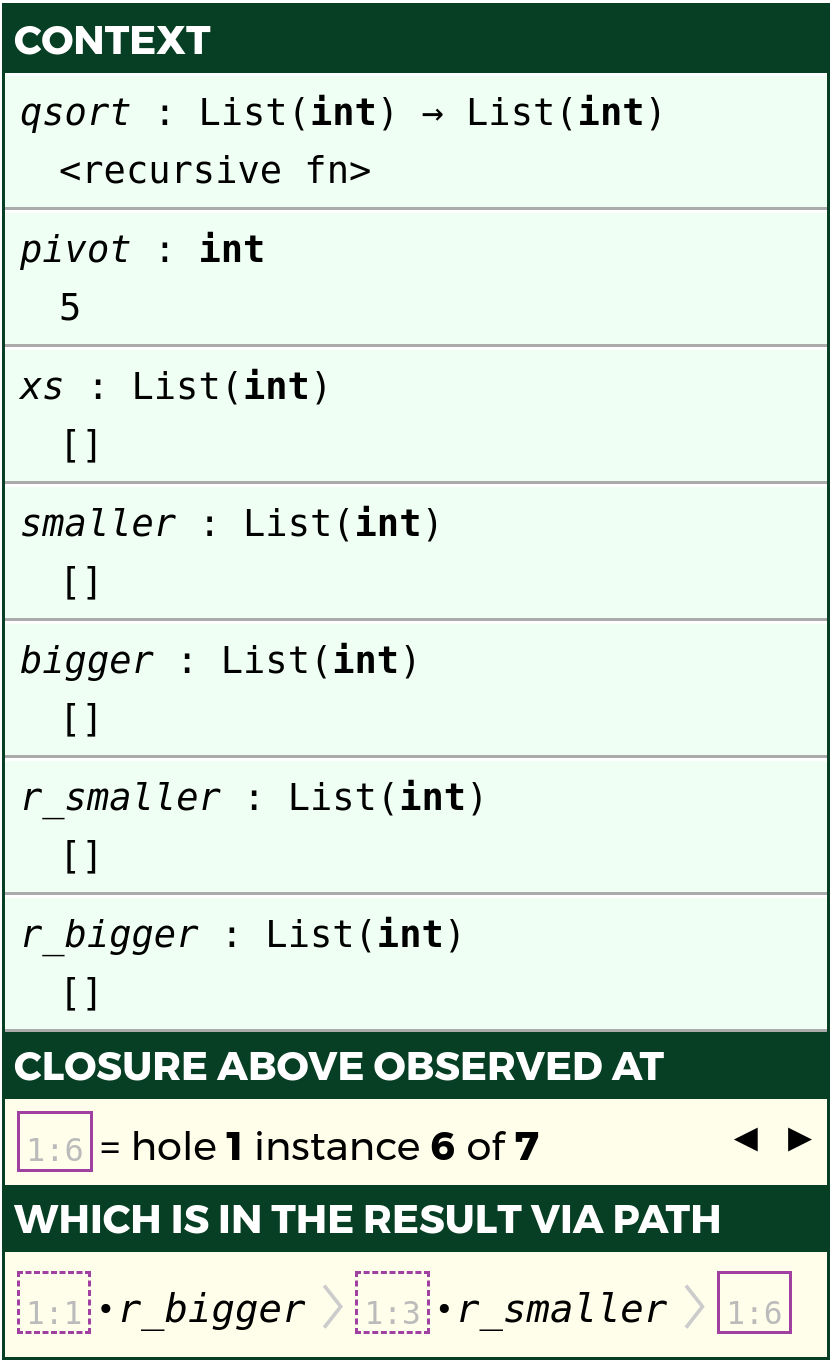
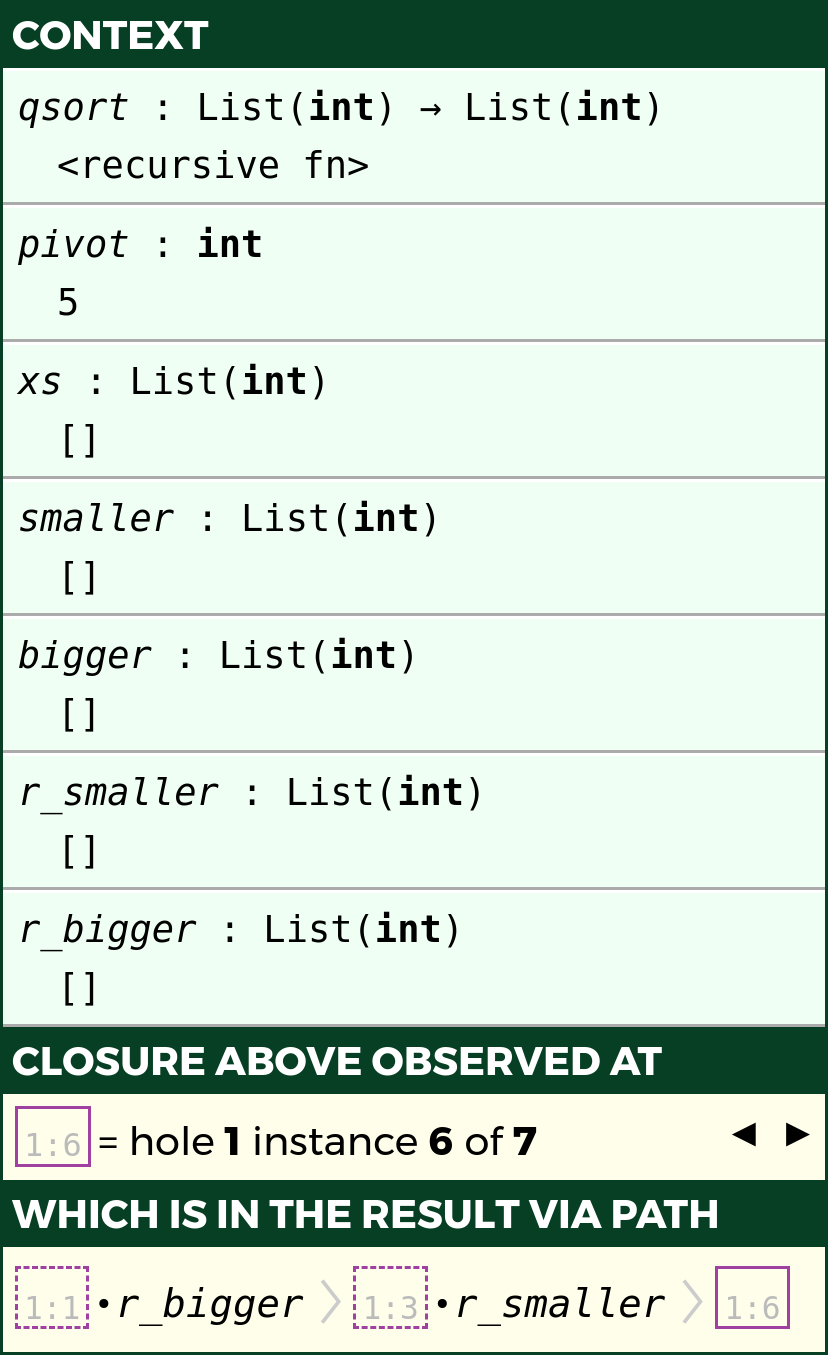
updates to sec 2

diff --git a/examples-1.tex b/examples-1.tex
@@ -24,14 +24,14 @@ However, when the programming environment attempts to evaluate the program,
 evaluation would proceed only as far as the first \li{map} iteration, 
 which would call into \li{weighted_average} and then fail when attempting to evaluate the hole.%
 \footnote{In a lazy language, like Haskell, the result would be much the same because the environment forces the result for printing.}
-While the stack trace would confirm that \li{weighted_average} has been called, this is not entirely satisfying.
+% While the stack trace would confirm that \li{weighted_average} has been called, this is not entirely satisfying.
 
 \Hazel{} does not take this ``exceptional'' interpretation of holes. Instead, evaluation continues past the hole, treating it as an opaque expression of the appropriate type. The result, shown at the bottom of Fig.~\ref{fig:grades-cell-mockup}, is a list of length $3$, confirming that \li{map} does indeed behave as expected in this regard despite the teacher having provided an incomplete argument. Furthermore, each element of the resulting list has been evaluated as far as possible, i.e. the arithmetic expression \li{30.0*hw} has been evaluated for each corresponding value of \li{hw}, as expected. Evaluation cannot proceed any further because holes appear as addends. We say that each of these addition expressions is an \emph{indeterminate} sub-expression, and the result as a hole is therefore also indeterminate, because it is not yet a value, nor can it take a step due to holes in elimination positions.
 
 At this point, the teacher might take notice of the magnitude of the numbers being computed, e.g. \li{2640.0} and \li{2280.0}, and
 realize immediately that a mistake has been made: the teacher wants to compute a 
 weighted average between \li{0.0} and \li{100.0}, and so the correct
-constant is \li{0.30} rather than \li{30.0}. (There are of course other possible fixes.)
+constant is \li{0.30}, not \li{30.0}. %(There are of course other possible fixes.)
 
 Although these observations might 
 save only a small amount of time in this case, 
@@ -42,17 +42,18 @@ it demonstrates
 the broader motivations of live programming: continuous feedback about the dynamic behavior of the 
 program can help confirm the mental model 
 that the programmer has developed (in this case, regarding the behavior of \li{map}), and also help quickly dispel 
-inconsistencies between the programmer's expectations and the 
+misconceptions about the 
 actual behavior of the program (in this case, the magnitude of the arithmetic expressions being computed).
 
 % The result itself is not the only live feedback that \Hazel reports to the programmer.
 % Programmers also keep track of the names and types of the variables that are in scope at the cursor. 
 Going further, \Hazel helps programmers reason about the dynamic behavior of expressions bound to variables in scope at a hole via the \emph{live context inspector}, normally displayed  as a sidebar but shown disembodied in three different states in Fig.~\ref{fig:grades-sidebar}. 
 In all three states, the live context inspector displays the names and types of the variables that are in scope, as is a common feature of programming environments. 
-New to our approach are the values associated with bindings, which come from the environment associated with the selected hole instance in the result. In this case, there are three instances of hole \li{1} in the result, numbered sequentially: \li{1:1}, \li{1:2} and \li{1:3}, arising from the three calls to \li{weighted_averages}. 
-% An environment is a partial mapping of variables in scope to values. 
+New to our approach are the values associated with bindings, which come from the environment associated with the selected hole instance in the result. 
 We call a hole instance paired with an  environment a \emph{hole closure}, by analogy to function closures (and also due to the logical connection detailed in Sec.~\ref{sec:calculus}). 
-The programmer can select different closures by clicking on a hole instance in the result (the first instance, \li{1:1}, is selected by default, as indicated by the purple outline), or cycle through all of the closures for the hole at the cursor by clicking the arrows, e.g. $\blacktriangleright$, at the bottom of the context inspector or using hotkeys.
+In this case, there are three instances of hole \li{1} in the result, numbered sequentially: \li{1:1}, \li{1:2} and \li{1:3}, arising from the three calls to \li{weighted_averages}. 
+% An environment is a partial mapping of variables in scope to values. 
+The programmer can select different closures by clicking on a hole instance in the result (the first instance, \li{1:1}, is selected by default, as indicated by the purple outline), or cycle through all of the closures for the hole at the cursor by clicking the arrows, e.g. $\blacktriangleright$, or using hotkeys.
 
 \vspace{-4px}
 \subsection{Example 2: Recursive Functions}\label{sec:qsort1}\label{sec:paths}

diff --git a/fig-grades-example.tex b/fig-grades-example.tex
@@ -3,7 +3,8 @@
 \begin{figure}[t]
 \begin{subfigure}[t]{\textwidth}
 \centering
-\includegraphics[width=0.85\textwidth,interpolate=false]{images/grades-cell-mockup.png}
+\includegraphics[width=0.75\textwidth,interpolate=false]{images/grades-cell-mockup.png}
+\vspace{-3px}
 \caption{Evaluating an incomplete functional program past the first hole}
 \label{fig:grades-cell-mockup}
 \end{subfigure}
@@ -12,11 +13,11 @@
 
 \begin{subfigure}[t]{\textwidth}
 \centering
-\includegraphics[width=0.3\textwidth,interpolate=false]{images/grades-sidebar-1.png}
+\includegraphics[width=0.29\textwidth,interpolate=false]{images/grades-sidebar-1.png}
 ~${}^\blacktriangleright$
-\includegraphics[width=0.3\textwidth,interpolate=false]{images/grades-sidebar-2.png}
+\includegraphics[width=0.29\textwidth,interpolate=false]{images/grades-sidebar-2.png}
 ~${}^\blacktriangleright$
-\includegraphics[width=0.3\textwidth,interpolate=false]{images/grades-sidebar-3.png}
+\includegraphics[width=0.29\textwidth,interpolate=false]{images/grades-sidebar-3.png}
 \caption{The programming environment communicates relevant static \emph{and} dynamic information in a sidebar.}
 \label{fig:grades-sidebar}
 \end{subfigure}
@@ -29,9 +30,9 @@
 % multiplication, types \#10 to create 10, types vh1 to create variable use.}
 
 % \includegraphics[scale=0.20]{images/hazel-placeholder-1a.png}
-\vspace{5px}
+\vspace{3px}
 
 \caption{Example 1: Grades}
 \label{fig:grades-example}
-\vspace{-8px}
+\vspace{-5px}
 \end{figure}

diff --git a/qsort-example.tex b/qsort-example.tex
@@ -3,7 +3,7 @@
 \begin{figure}[t]
 \begin{subfigure}[t]{\textwidth}
 \centering
-\includegraphics[width=0.55\textwidth,interpolate=false,valign=t]{images/qsort-code.png}
+\includegraphics[width=0.57\textwidth,interpolate=false,valign=t]{images/qsort-code.png}
 \vspace{-3px}
 \caption{The result of evaluating this incomplete quicksort function applied to a test value is a hole closure.}
 \label{fig:qsort-example-code}

diff --git a/examples-2.tex b/examples-2.tex
@@ -12,7 +12,7 @@
 \includegraphics[width=0.7\textwidth,interpolate=false,valign=t]{images/qsort-type-error.png}
 \caption{Example 3: Ill-Typed Quicksort}
 \label{fig:qsort-type-error}
-\vspace{-8px}
+\vspace{-4px}
 \end{figure}
 % \end{subfigure}
 
